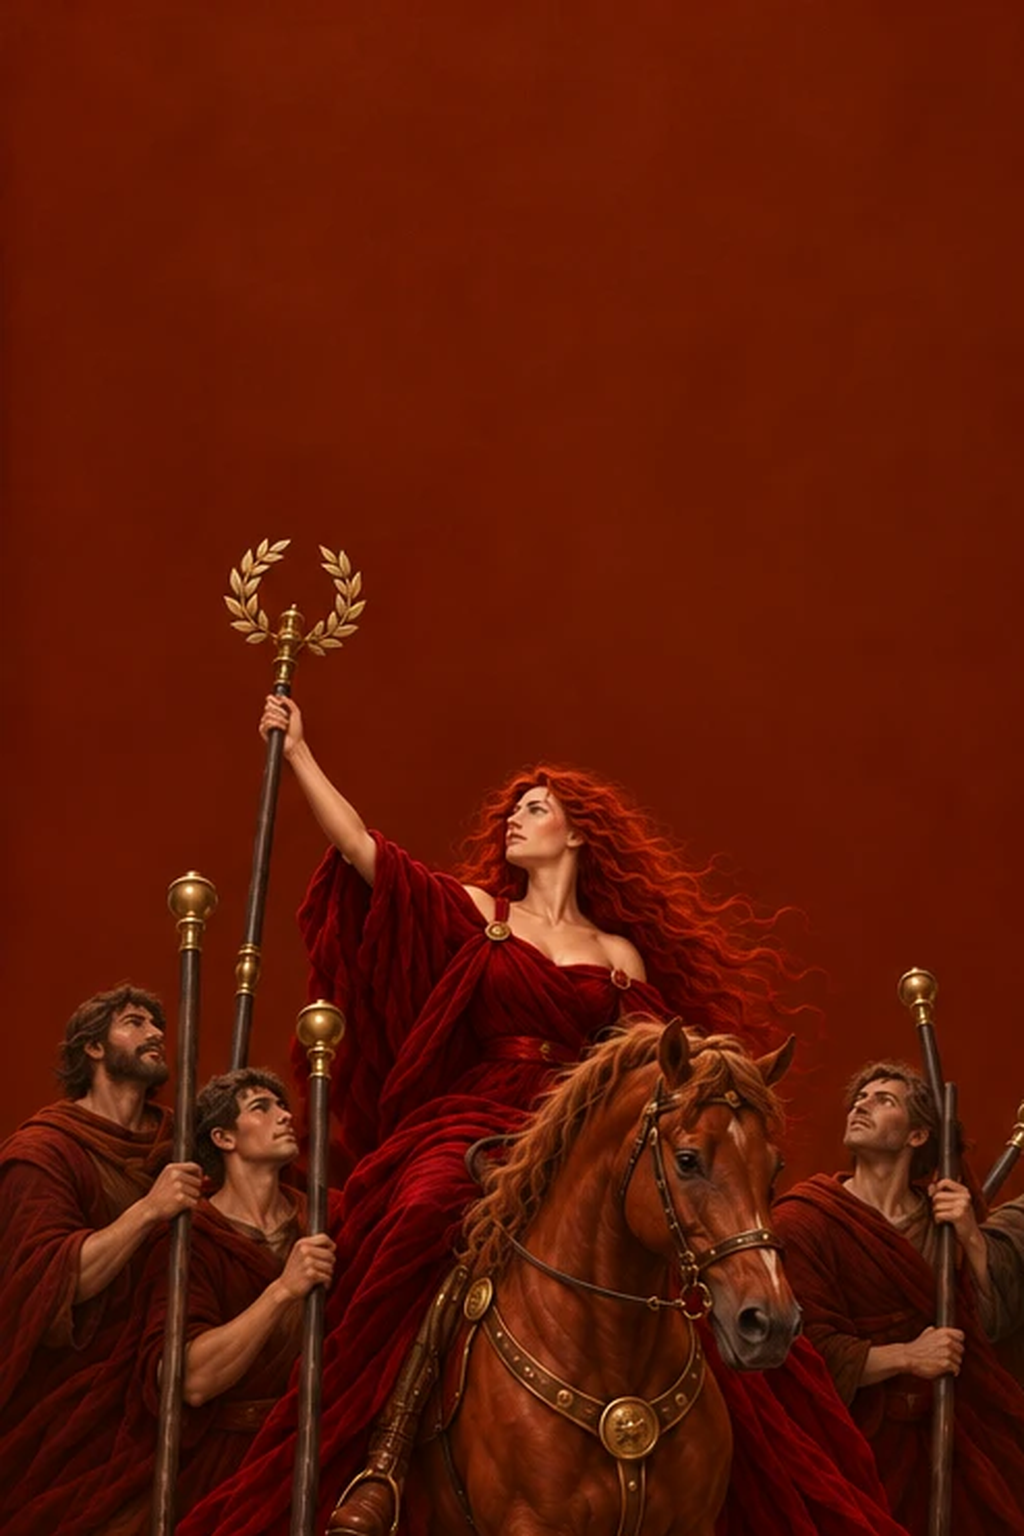
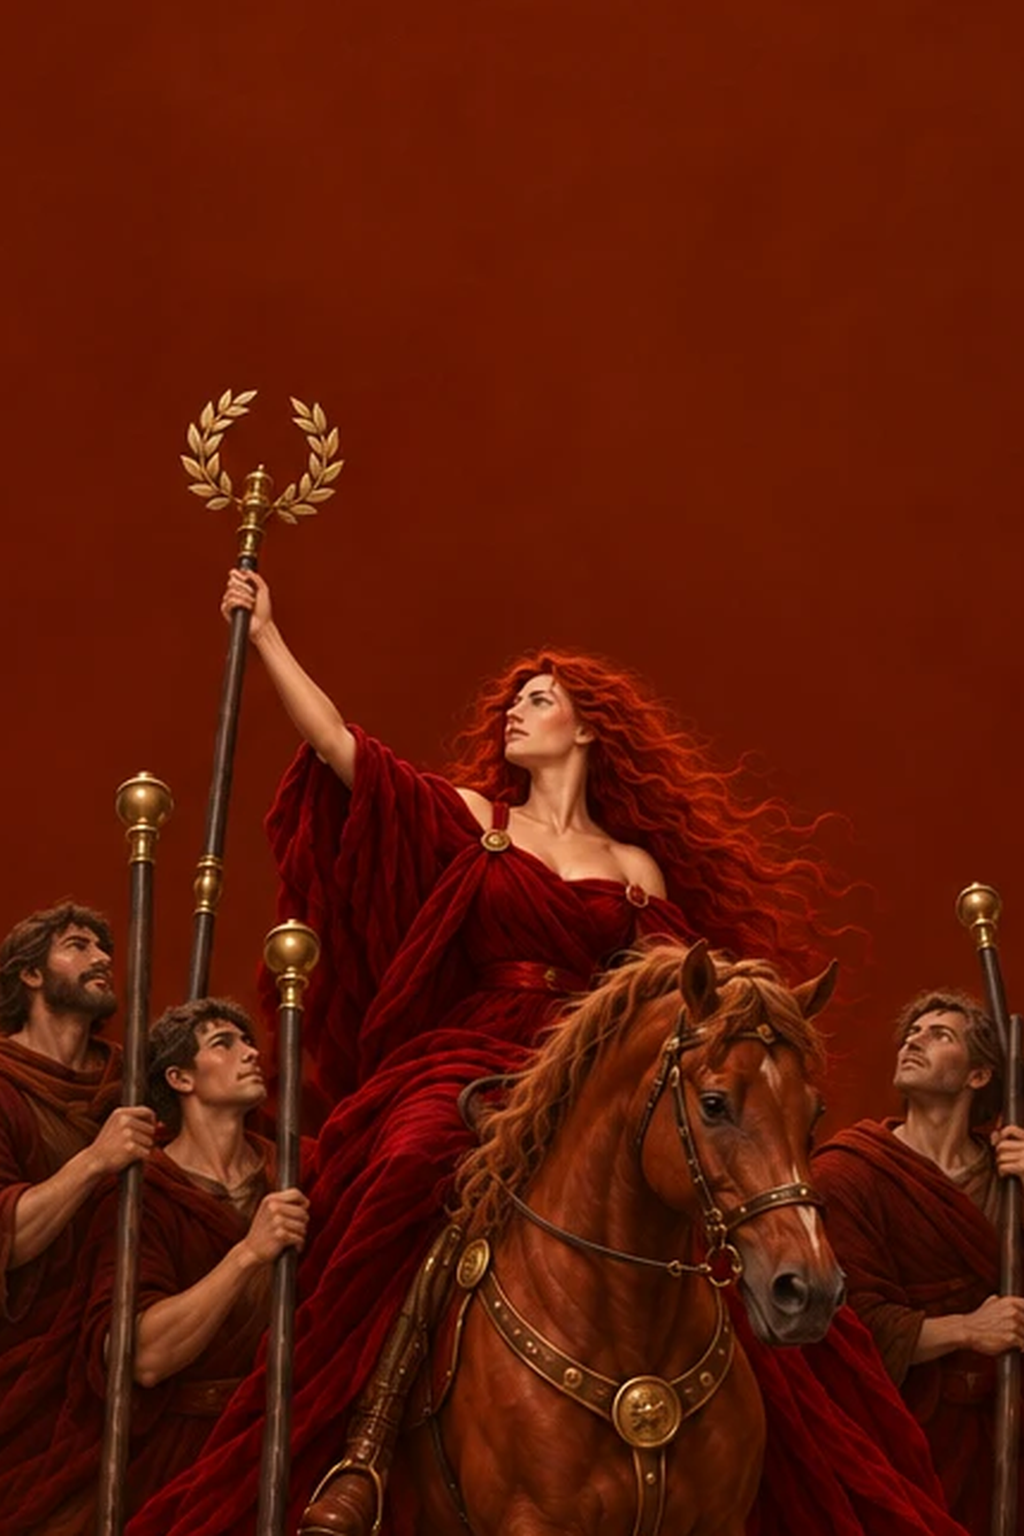
Zoom in the six and seven of Wands
Обе сцены стояли мелко: у шестёрки фигура начиналась на 35% высоты, у
семёрки на 45, и сверху зияло пустое поле вдвое выше нужного. Шестёрка
приближена в 1.15 раза, семёрка в 1.32 — кадр режется от нижнего края, где
фигуры и стоят, так что приближение берёт настоящие пиксели.

Пажа уменьшить не вышло, и это стоит записать. Отдаление пикселей не берёт,
а придумывает: поля приходится дотягивать краем карты. Край затемнён
виньеткой и даёт по периметру рамку, полоса чуть внутри — вертикальный
размаз плаща. Паж возвращён к принятому виду; если он всё же крупноват,
дешевле перерисовать его с указанием доли кадра.

Claude-Session: https://claude.ai/code/session_018qVN81Lxu41qxfS4FofNry

Changed region(s): [[0.0, 0.25, 1.0, 1.0]]

diff --git a/scripts/reframe.py b/scripts/reframe.py
@@ -1,0 +1,118 @@
+"""Приближает или отдаляет карту, не перерисовывая её.
+
+Сцена иногда выходит мелкой в кадре или, наоборот, упирается в края. Кадр при
+этом исправим: фигура стоит на нижнем крае, поэтому и приближение, и отдаление
+считаются от низа, а сверху добавляется или убирается пустой фон.
+
+    python scripts/reframe.py wands_06 1.15      # приблизить
+    python scripts/reframe.py wands_11 0.93      # отдалить
+
+Карта пересохраняется только если после этого проходит приёмку: приближение
+легко загоняет фигуру в поле под надпись.
+"""
+
+from __future__ import annotations
+
+import argparse
+import sys
+from pathlib import Path
+
+from PIL import Image, ImageFilter
+
+sys.path.insert(0, str(Path(__file__).resolve().parent))
+
+from generate_cards import inspect  # noqa: E402
+from split_sheet import BOARD, BOARD_SIZE, CARDS, CARD_SIZE, tone_for  # noqa: E402
+
+
+def zoom(card: Image.Image, factor: float) -> Image.Image:
+    """Приближение — вырез от низа, отдаление — вклейка в размытый свой же фон."""
+    width, height = card.size
+    if factor > 1:
+        window = (round(width / factor), round(height / factor))
+        left = (width - window[0]) // 2
+        box = (left, height - window[1], left + window[0], height)
+        return card.crop(box).resize((width, height), Image.LANCZOS)
+
+    # Поля вокруг дотягиваются не краем карты, а полосой чуть внутри него: сам
+    # край уже затемнён виньеткой, и растянутый он даёт по периметру тёмную рамку.
+    # Затемнение к обрезу возвращается отдельно, ровным спадом.
+    inset = 24
+    small = card.resize((round(width * factor), round(height * factor)), Image.LANCZOS)
+    left = (width - small.width) // 2
+    top = height - small.height
+
+    field = Image.new("RGB", (width, height))
+    field.paste(small, (left, top))
+    if top:
+        band = small.crop((0, inset, small.width, inset + 2)).resize((small.width, top))
+        field.paste(band, (left, 0))
+    if left:
+        column = field.crop((left + inset, 0, left + inset + 1, height))
+        field.paste(column.resize((left + inset, height)), (0, 0))
+        far = left + small.width - inset
+        column = field.crop((far - 1, 0, far, height))
+        field.paste(column.resize((width - far, height)), (far, 0))
+
+    return darken_edges(field, left, top)
+
+
+def darken_edges(card: Image.Image, left: int, top: int) -> Image.Image:
+    """Возвращает спад к обрезу, съеденный растяжением полей."""
+    width, height = card.size
+    if not left and not top:
+        return card
+
+    mask = Image.new("L", (64, 96), 255)
+    pixels = []
+    for y in range(mask.height):
+        for x in range(mask.width):
+            dx = min(x, mask.width - 1 - x) / mask.width
+            dy = min(y, mask.height - 1 - y) / mask.height
+            near = min(1.0, min(dx, dy) / 0.10)
+            pixels.append(round(255 * (0.86 + 0.14 * near)))
+    mask.putdata(pixels)
+    shade = mask.resize((width, height), Image.BICUBIC)
+
+    out = Image.new("RGB", (width, height))
+    out.putdata(
+        [
+            tuple(round(c * v / 255) for c in pixel)
+            for pixel, v in zip(card.getdata(), shade.getdata(), strict=True)
+        ]
+    )
+    return out
+
+
+def main() -> int:
+    parser = argparse.ArgumentParser(description="Изменить крупность карты")
+    parser.add_argument("card_id")
+    parser.add_argument("factor", type=float, help="больше 1 — приблизить, меньше — отдалить")
+    parser.add_argument("--force", action="store_true")
+    args = parser.parse_args()
+
+    source = CARDS / f"{args.card_id}.png"
+    if not source.exists():
+        raise SystemExit(f"нет такой карты: {source}")
+
+    card = zoom(Image.open(source).convert("RGB"), args.factor)
+    work = Path("/tmp") / f"{args.card_id}-reframe.png"
+    card.save(work)
+    check = inspect(work, tone_for(args.card_id))
+    print(f"{args.card_id} ×{args.factor}: {check.report}")
+
+    if not check.ok and not args.force:
+        print("  не сохраняю — после такого кадра карта не проходит приёмку")
+        return 1
+
+    card = card.resize(CARD_SIZE, Image.LANCZOS)
+    card.save(source)
+    card.resize(BOARD_SIZE, Image.LANCZOS).save(
+        BOARD / f"{args.card_id}.jpg", quality=86, optimize=True
+    )
+    print("  сохранено")
+    return 0
+
+
+if __name__ == "__main__":
+    raise SystemExit(main())
